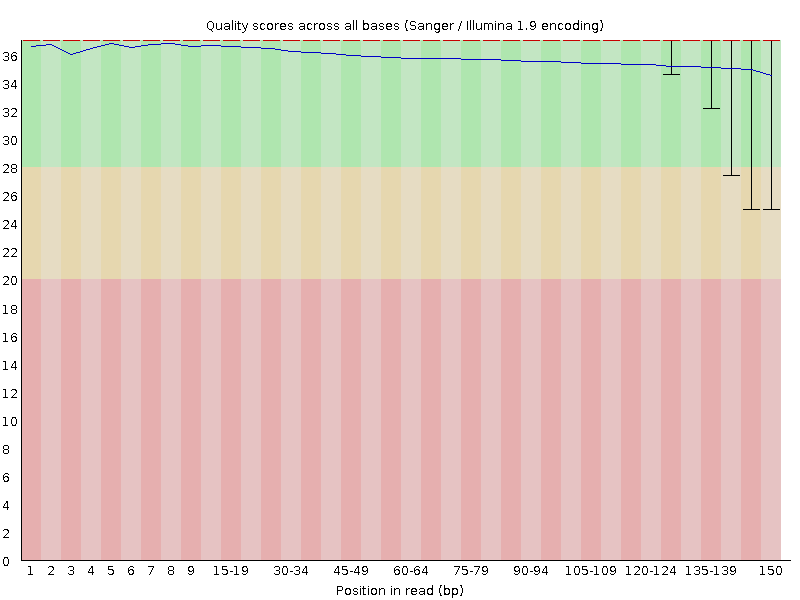
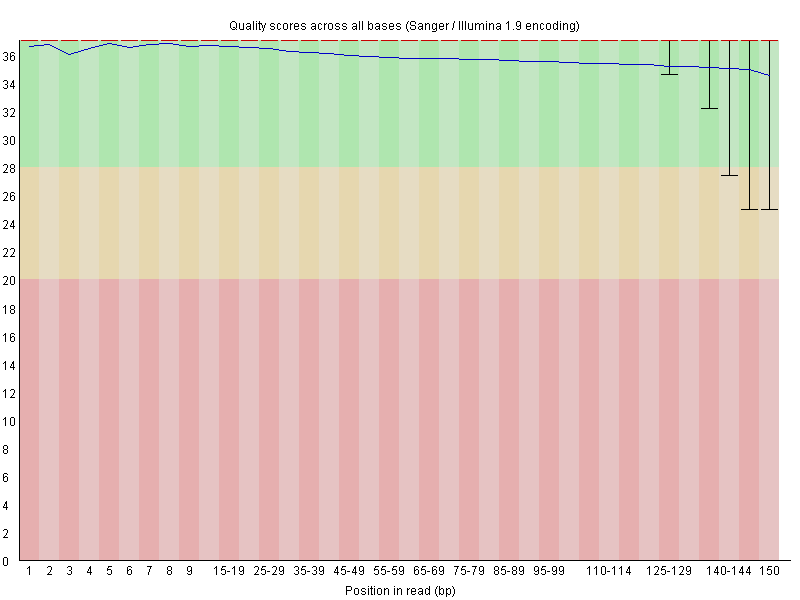
Refresh raw R1 FastQC quality plot

diff --git a/Week-4/README.md b/Week-4/README.md
@@ -132,6 +132,8 @@ renders a uniform blue heatmap with no meaningful across-tile comparison.
 
 **Raw R1**
 
+Freshly regenerated with FastQC 0.12.1 from the downloaded raw FASTQ file.
+
 <img src="results/qc/figures/raw/R1/per_base_quality.png" width="700">
 
 **Trimmed R1**
